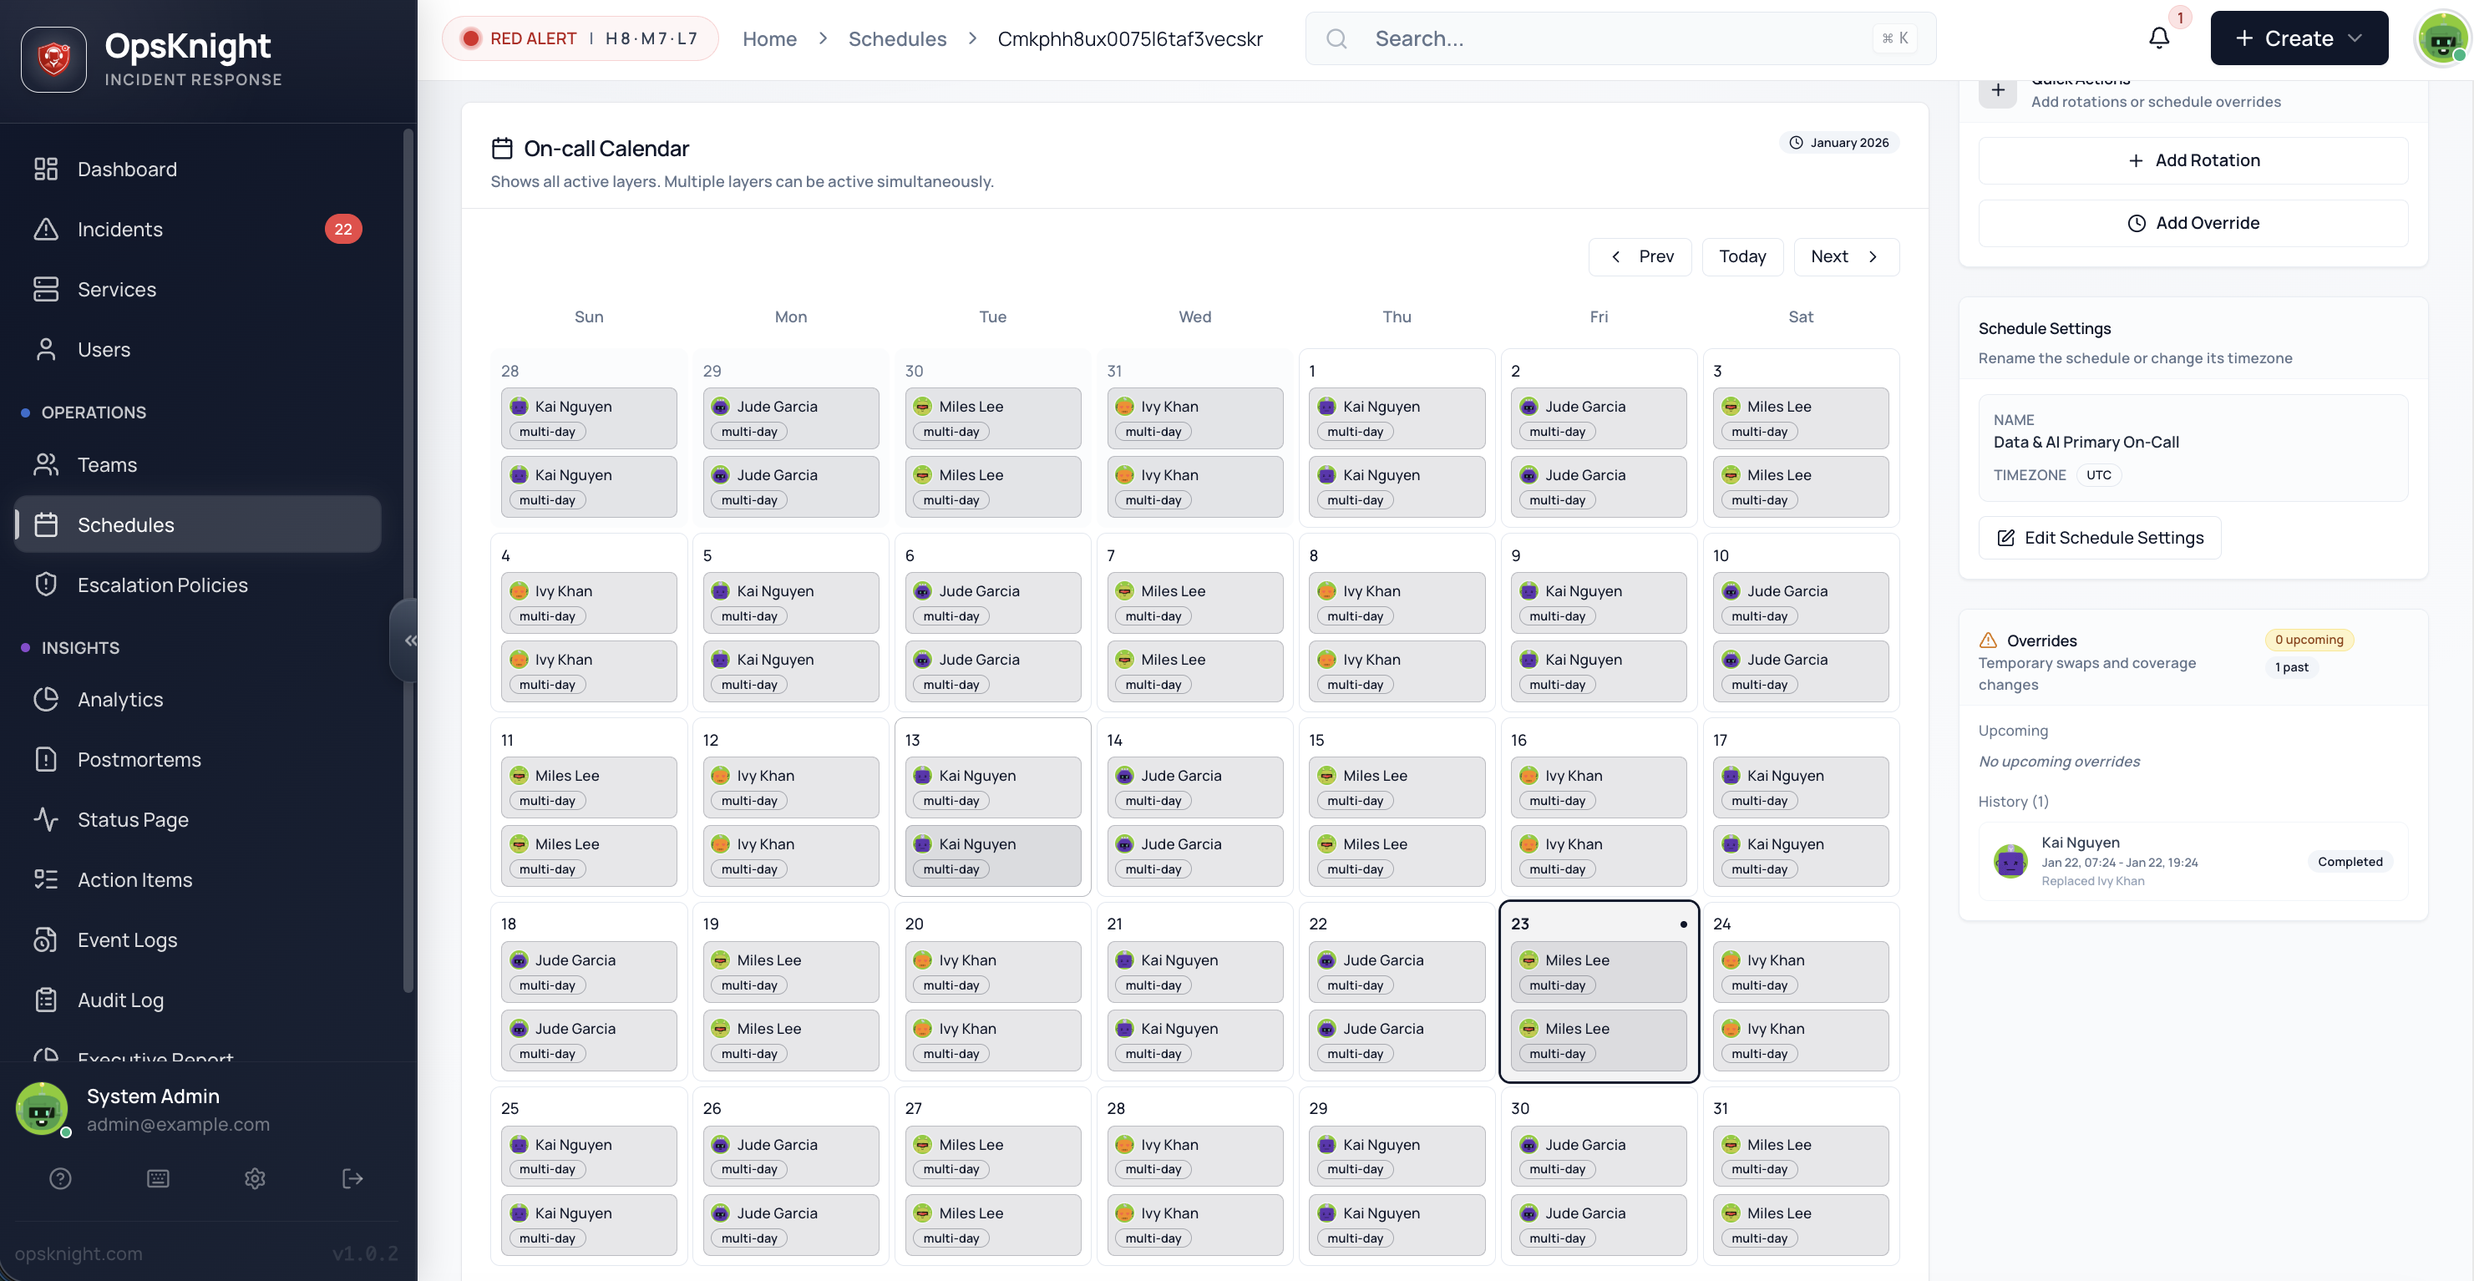
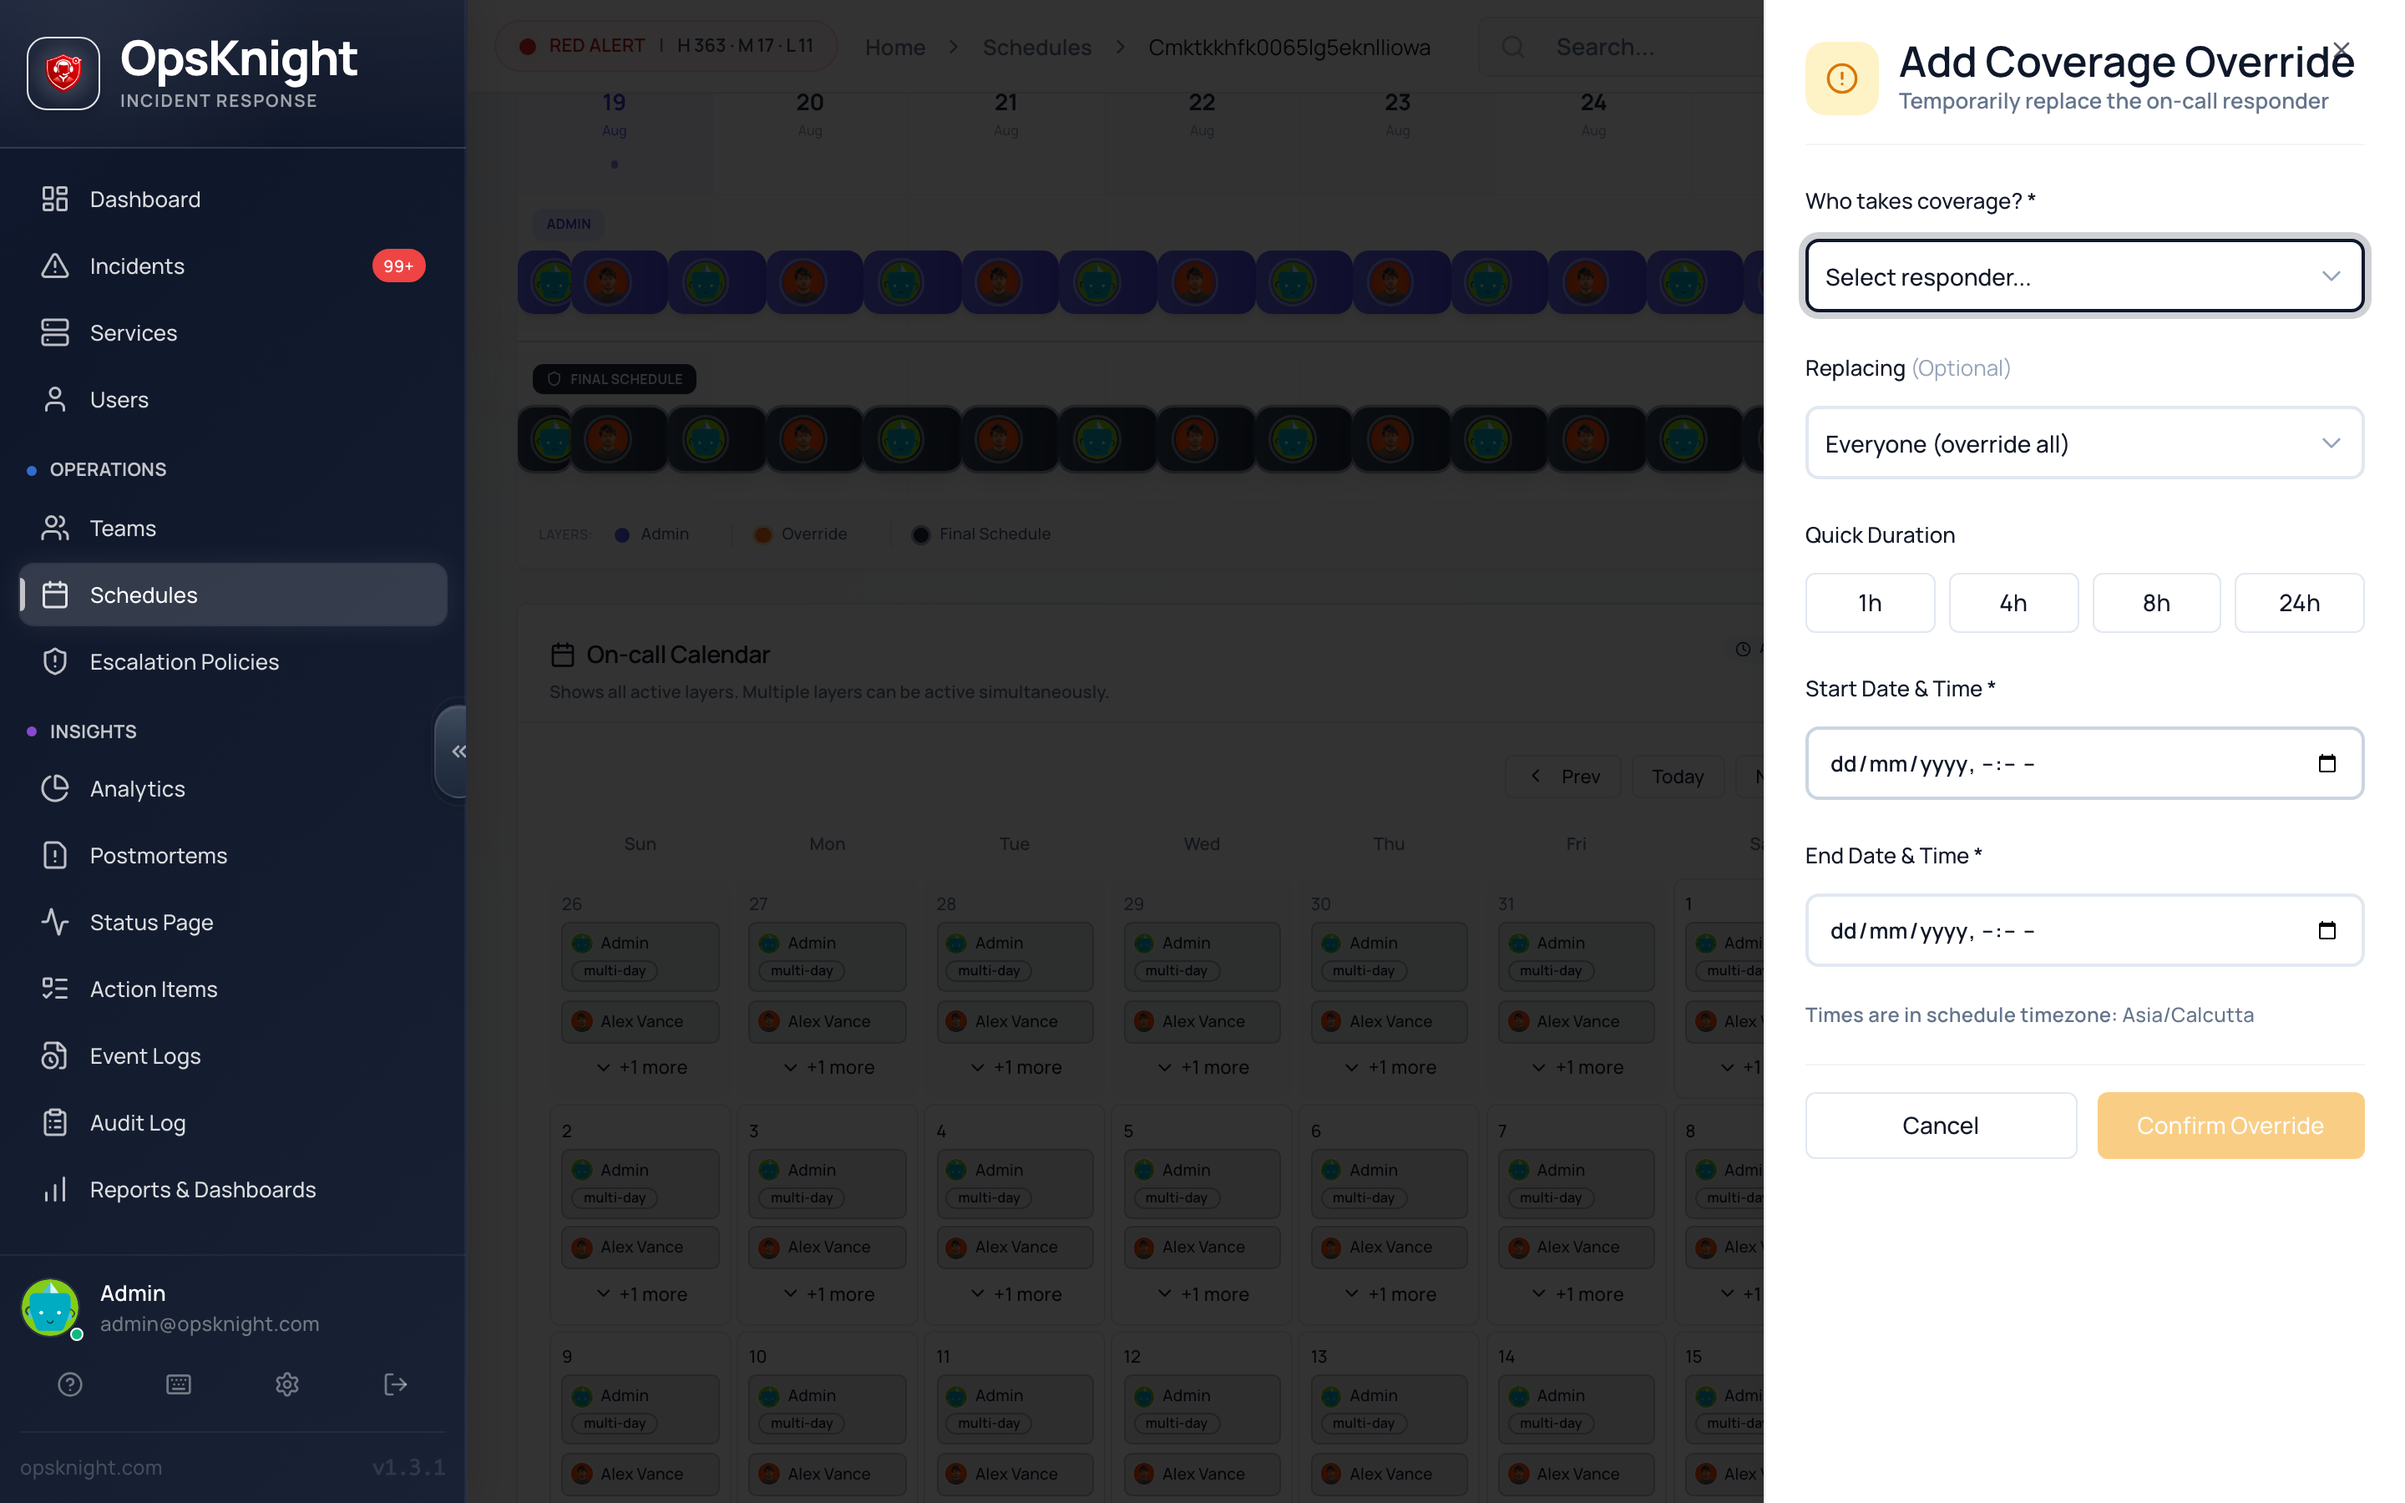
feat(assets): populate rich schedule data and capture crisp 2x Retina screenshots showing open schedule timelines and override drawers

diff --git a/src/components/showcase/ProductTour.tsx b/src/components/showcase/ProductTour.tsx
@@ -80,7 +80,7 @@ const TOUR_TABS: TourTab[] = [
     shortTitle: "Rotations & Shifts",
     badge: "Timezone-Aware",
     icon: Calendar,
-    image: "/schedule-main.png",
+    image: "/schedule-detail.png",
     url: "https://app.opsknight.com/schedules",
     heading: "Multi-layer rotation schedules that prevent alert fatigue",
     description: "Build flexible daily, weekly, or custom on-call rotations with automated timezone conversion. Schedule temporary shift overrides and swaps in seconds with calendar sync.",
